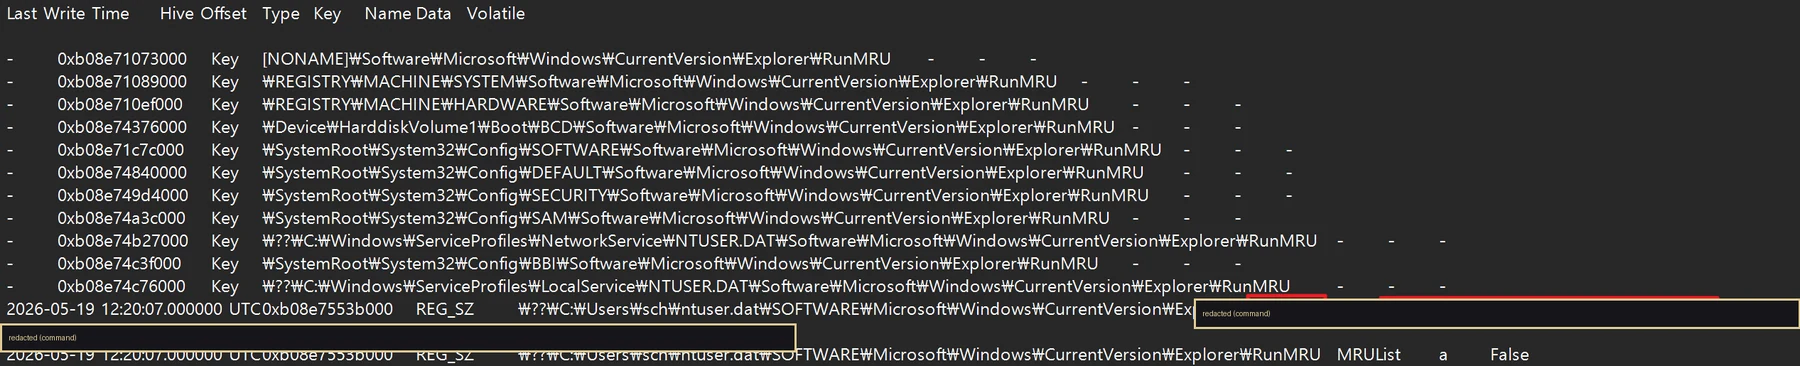
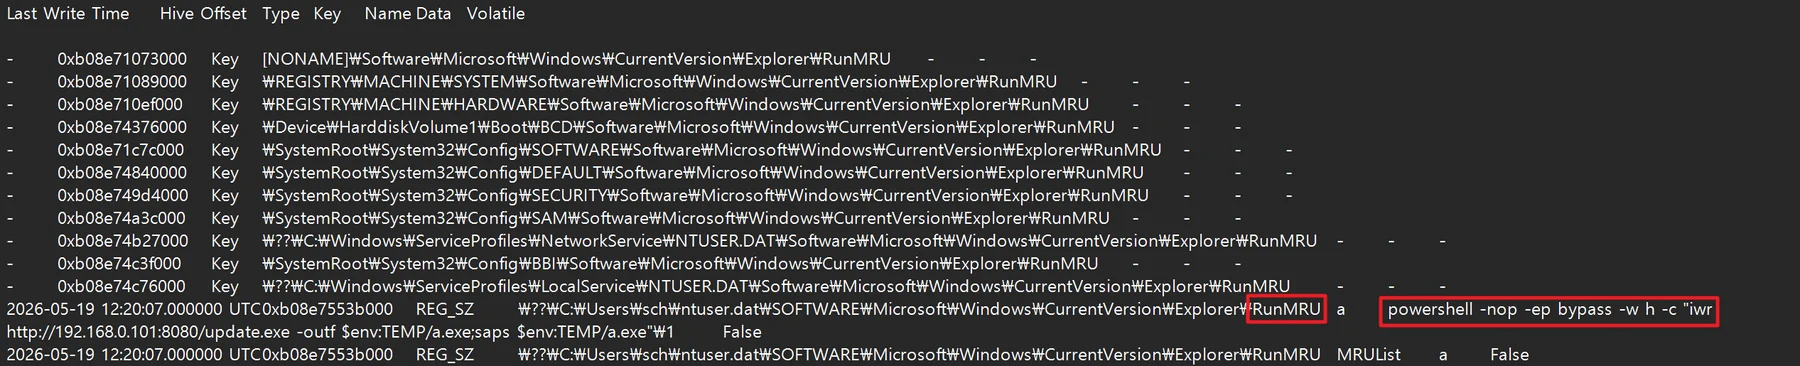
Show lab credentials and secrets unmasked in practice screenshots

Changed region(s): [[0.0, 0.8716, 0.4667, 0.9918], [0.6533, 0.8115, 1.0, 0.9016]]

diff --git a/index.html b/index.html
@@ -964,7 +964,7 @@
 
       <article class="wuitem" id="it-sqli">
         <div class="wuih"><span class="ft">SQLi</span><h3>SQL Injection — DB 구조 식별</h3><a class="anchor" href="#sqli">#sqli</a></div>
-        <p>도구 응답에서 데이터베이스의 테이블 목록을 확인했습니다. 추출한 값 중 민감한 부분은 공개본에서 가렸습니다.</p>
+        <p>도구 응답에서 데이터베이스의 테이블 목록을 확인했습니다.</p>
         <figure class="fig"><button class="zoom" aria-label="확대: SQLi"><img src="assets/img/webdiag-01.webp" alt="데이터베이스 테이블 목록" loading="lazy"></button><figcaption>도구 응답으로 확인한 테이블 목록</figcaption></figure>
       </article>
       <article class="wuitem" id="it-xss">
@@ -979,17 +979,17 @@
         <div class="wuih"><span class="ft">CSRF</span><h3>CSRF 댓글 작성 요청</h3><a class="anchor" href="#csrf">#csrf</a></div>
         <p>피해자가 숨겨진 요청이 담긴 글을 열기만 해도 피해자 권한으로 댓글이 작성되는 흐름을 확인했습니다. 다른 세션 권한에 미치는 영향은 확인하지 않았습니다.</p>
         <div class="figrow two" style="margin-top:16px">
-          <figure class="fig"><button class="zoom" aria-label="확대: CSRF 요청"><img src="assets/img/webdiag-06.webp" alt="댓글 작성 요청을 자동으로 보내는 iframe을 글 내용에 삽입한 화면(비밀번호 값은 가림)" loading="lazy"></button><figcaption>요청 — 댓글 작성 요청을 자동으로 보내는 iframe을 글 내용에 심었습니다. 요청의 비밀번호 값은 가렸습니다.</figcaption></figure>
+          <figure class="fig"><button class="zoom" aria-label="확대: CSRF 요청"><img src="assets/img/webdiag-06.webp" alt="댓글 작성 요청을 자동으로 보내는 iframe을 글 내용에 삽입한 화면" loading="lazy"></button><figcaption>요청 — 댓글 작성 요청을 자동으로 보내는 iframe을 글 내용에 심었습니다(num·co_content·co_pass 파라미터 포함).</figcaption></figure>
           <figure class="fig"><button class="zoom" aria-label="확대: CSRF 결과"><img src="assets/img/webdiag-07.webp" alt="CSRF로 자동 작성된 댓글" loading="lazy"></button><figcaption>결과 — 글을 연 것만으로 댓글이 자동 작성된 것을 확인했습니다.</figcaption></figure>
         </div>
       </article>
       <article class="wuitem" id="it-upload">
         <div class="wuih"><span class="ft">UPLOAD</span><h3>악성 파일 업로드</h3><a class="anchor" href="#upload">#upload</a></div>
-        <p>확장자를 제한하는 클라이언트 검사를 우회해 서버에 스크립트 파일을 올리고, 그 파일이 서버에서 실행되는 것까지 확인했습니다. 실행에 바로 쓸 수 있는 명령 문자열은 공개본에서 가렸습니다.</p>
+        <p>확장자를 제한하는 클라이언트 검사를 우회해 서버에 스크립트 파일을 올리고, 그 파일이 서버에서 시스템 명령을 실행하는 것까지 확인했습니다.</p>
         <figure class="fig" style="max-width:560px;margin-top:16px"><button class="zoom" aria-label="확대: 확장자 검사"><img src="assets/img/webdiag-31.webp" alt="허용 확장자를 jpg·hwp·pdf·jpeg·txt로 제한한다는 클라이언트 알림" loading="lazy"></button><figcaption>클라이언트 검사 — 허용 확장자를 제한하는 알림이 뜨지만, 이 검사는 브라우저 쪽이라 우회할 수 있었습니다.</figcaption></figure>
         <div class="figrow two" style="margin-top:14px">
           <figure class="fig"><button class="zoom" aria-label="확대: 업로드 파일 실행"><img src="assets/img/webdiag-33.webp" alt="업로드한 ASP 파일에 접근하자 Hello World가 출력됨" loading="lazy"></button><figcaption>실행 확인 — 올린 ASP 파일에 접근하자 코드가 실행돼 결과가 출력됐습니다.</figcaption></figure>
-          <figure class="fig"><button class="zoom" aria-label="확대: 시스템 명령 실행"><img src="assets/img/webdiag-34.webp" alt="업로드한 ASP가 시스템 명령을 실행해 ipconfig 결과를 반환(URL의 명령 문자열은 가림)" loading="lazy"></button><figcaption>영향 — 같은 방식으로 시스템 명령을 실행해 내부 네트워크 정보(ipconfig)가 반환됐습니다. URL의 명령 문자열은 가렸습니다.</figcaption></figure>
+          <figure class="fig"><button class="zoom" aria-label="확대: 시스템 명령 실행"><img src="assets/img/webdiag-34.webp" alt="업로드한 ASP가 cmd 명령으로 ipconfig를 실행해 결과를 반환" loading="lazy"></button><figcaption>영향 — 업로드한 ASP에 <code class="inl">cmd</code> 명령을 넘겨 ipconfig를 실행하자 내부 네트워크 정보가 반환됐습니다(웹셸 RCE).</figcaption></figure>
         </div>
       </article>
       <article class="wuitem" id="it-filedl">
@@ -1059,7 +1059,7 @@
         <div class="m"><div class="mk">수행 유형</div><div class="mv">교육 실습(사설망)</div></div>
         <div class="m"><div class="mk">도구</div><div class="mv">Metasploit · John · hping3</div></div>
         <div class="m"><div class="mk">성격</div><div class="mv">공개 취약점 재현·연계</div></div>
-        <div class="m"><div class="mk">공개 처리</div><div class="mv">비밀값 마스킹</div></div>
+        <div class="m"><div class="mk">공개 처리</div><div class="mv">실습 데이터 공개</div></div>
       </div>
 
       <article class="wuitem" id="it-calc">
@@ -1072,10 +1072,10 @@
       </article>
       <article class="wuitem" id="it-rpc">
         <div class="wuih"><span class="ft">CVE-1999-0209</span><h3>RPC 원격 → root · 해시 크랙</h3><a class="anchor" href="#rpc">#rpc</a></div>
-        <p>사설 실습망의 Solaris RPC 취약점을 공개 모듈로 재현해 셸을 얻고 이후 권한을 확인했습니다. 추출한 해시는 크랙 도구로 복원했습니다. 해시·평문 등 계정 정보는 공개본에서 가렸습니다.</p>
+        <p>사설 실습망의 Solaris RPC 취약점을 공개 모듈로 재현해 root 셸을 얻고, <code class="inl">/etc/shadow</code>에서 추출한 해시를 John the Ripper로 크랙했습니다.</p>
         <div class="figrow two">
-          <figure class="fig"><button class="zoom" aria-label="확대: RPC 셸"><img src="assets/img/rpc-07.webp" alt="RPC 취약점 재현으로 획득한 셸" loading="lazy"></button><figcaption>RPC 재현으로 획득한 셸</figcaption></figure>
-          <figure class="fig"><button class="zoom" aria-label="확대: 해시 크랙"><img src="assets/img/rpc-08.webp" alt="해시 크랙 결과, 비밀값 마스킹" loading="lazy"></button><figcaption>해시 크랙(값 마스킹)</figcaption></figure>
+          <figure class="fig"><button class="zoom" aria-label="확대: RPC 셸"><img src="assets/img/rpc-07.webp" alt="RPC 취약점 재현으로 획득한 root 셸과 /etc/shadow 출력" loading="lazy"></button><figcaption>셸 획득 — RPC 재현으로 root 셸을 얻고 <code class="inl">/etc/shadow</code>를 확인했습니다.</figcaption></figure>
+          <figure class="fig"><button class="zoom" aria-label="확대: 해시 크랙"><img src="assets/img/rpc-08.webp" alt="John the Ripper로 root 해시를 크랙한 결과" loading="lazy"></button><figcaption>해시 크랙 — John으로 root 계정 해시를 크랙했습니다.</figcaption></figure>
         </div>
       </article>
       <article class="wuitem" id="it-nmap">
@@ -1090,8 +1090,8 @@
       </article>
       <article class="wuitem" id="it-ssh">
         <div class="wuih"><span class="ft">SYSTEM</span><h3>Solaris SSH 접속 실습</h3><a class="anchor" href="#ssh">#ssh</a></div>
-        <p>교육용 Solaris 환경에서 Hydra로 사전 기반 SSH 접속을 시도해 일부 계정 접속을 확인했습니다. root 계정 획득은 확인하지 않았습니다. 공개본에서는 계정 비밀번호가 보이지 않도록 가린 구간만 실었습니다.</p>
-        <figure class="fig"><button class="zoom" aria-label="확대: SSH 사전 공격"><img src="assets/img/ssh-01.webp" alt="Hydra로 Solaris SSH에 사전 공격을 수행하는 로그(비밀번호 구간 제외)" loading="lazy"></button><figcaption>Hydra SSH 사전 공격 수행(비밀값 제외)</figcaption></figure>
+        <p>교육용 Solaris 환경에서 Hydra로 사전 기반 SSH 접속을 시도해 일부 계정 접속을 확인했습니다. root 계정 획득은 확인하지 않았습니다.</p>
+        <figure class="fig"><button class="zoom" aria-label="확대: SSH 사전 공격"><img src="assets/img/ssh-01.webp" alt="Hydra로 Solaris SSH에 사전 공격을 수행해 계정 접속을 확인한 로그" loading="lazy"></button><figcaption>Hydra 사전 공격 — 일부 계정의 SSH 접속을 확인했습니다.</figcaption></figure>
       </article>
       <article class="wuitem" id="it-cve3623">
         <div class="wuih"><span class="ft">CVE-2017-3623</span><h3>CVE-2017-3623</h3><a class="anchor" href="#cve3623">#cve3623</a></div>
@@ -1113,8 +1113,11 @@
       </article>
       <article class="wuitem" id="it-lindiag">
         <div class="wuih"><span class="ft">진단 · 수업</span><h3>리눅스·윈도우 취약점 진단</h3><a class="anchor" href="#lindiag">#lindiag</a></div>
-        <p>파일과 설정의 상태를 점검하는 진단 스크립트 실습입니다. 화면은 <code class="inl">/etc/shadow</code> 파일의 존재 여부를 확인하는 예제입니다. 완성된 통합 진단 스크립트 공개는 로드맵의 예정 항목입니다.</p>
-        <figure class="fig"><button class="zoom" aria-label="확대: 진단 스크립트"><img src="assets/img/lindiag-23.webp" alt="shadow 파일 존재 여부를 점검하는 진단 셸 스크립트" loading="lazy"></button><figcaption>shadow 파일 존재 점검 스크립트</figcaption></figure>
+        <p>파일과 설정의 상태를 점검하는 진단 스크립트 실습입니다. shadow 파일 존재 점검과 계정 해시 확인 예제를 다뤘습니다. 완성된 통합 진단 스크립트 공개는 로드맵의 예정 항목입니다.</p>
+        <div class="figrow two">
+          <figure class="fig"><button class="zoom" aria-label="확대: 진단 스크립트"><img src="assets/img/lindiag-23.webp" alt="shadow 파일 존재 여부를 점검하는 진단 셸 스크립트" loading="lazy"></button><figcaption>점검 — shadow 파일 존재 여부를 확인하는 스크립트입니다.</figcaption></figure>
+          <figure class="fig"><button class="zoom" aria-label="확대: 계정 해시"><img src="assets/img/lindiag-31.webp" alt="etc shadow의 계정 해시를 확인하는 점검 결과" loading="lazy"></button><figcaption>결과 — 점검 대상 계정의 해시 상태를 확인했습니다.</figcaption></figure>
+        </div>
       </article>
       <article class="wuitem" id="it-openedr">
         <div class="wuih"><span class="ft">소스 분석</span><h3>OpenEDR 소스 분석</h3><a class="anchor" href="#openedr">#openedr</a></div>
@@ -1142,7 +1145,7 @@
         <div class="m"><div class="mk">수행 유형</div><div class="mv">교육 실습(사설망)</div></div>
         <div class="m"><div class="mk">도구</div><div class="mv">pfSense · Suricata · Elastic · Wireshark</div></div>
         <div class="m"><div class="mk">성격</div><div class="mv">구성 · 수집 · 분석</div></div>
-        <div class="m"><div class="mk">공개 처리</div><div class="mv">식별 정보 마스킹</div></div>
+        <div class="m"><div class="mk">공개 처리</div><div class="mv">실습 데이터 공개</div></div>
       </div>
 
       <article class="wuitem" id="it-pfsense">
@@ -1301,7 +1304,7 @@
         <div class="m"><div class="mk">수행 유형</div><div class="mv">교육 실습 · 제공 샘플</div></div>
         <div class="m"><div class="mk">도구</div><div class="mv">DIE · Sysinternals · Volatility · FTK</div></div>
         <div class="m"><div class="mk">구분</div><div class="mv">자동 판정 ↔ 본인 해석</div></div>
-        <div class="m"><div class="mk">공개 처리</div><div class="mv">일부 값 마스킹</div></div>
+        <div class="m"><div class="mk">공개 처리</div><div class="mv">실습 데이터 공개</div></div>
       </div>
 
       <article class="wuitem" id="it-m518">
@@ -1353,13 +1356,13 @@
       </article>
       <article class="wuitem" id="it-clickfix">
         <div class="wuih"><span class="ft">메모리</span><h3>ClickFix 메모리 포렌식</h3><a class="anchor" href="#clickfix">#clickfix</a></div>
-        <p>ClickFix 침해 사고의 메모리 덤프를 Volatility 3으로 분석했습니다. 이미지 정보로 환경을 확인하고, 의심 프로세스와 레지스트리 실행 흔적, 메모리에 남은 URL을 차례로 대조했습니다. 실행에 바로 쓸 수 있는 악성 명령 문자열은 공개본에서 가렸습니다.</p>
+        <p>ClickFix 침해 사고의 메모리 덤프를 Volatility 3으로 분석했습니다. 이미지 정보·의심 프로세스·레지스트리 실행 흔적·메모리 URL·코드 인젝션·외부 연결·자격증명 덤프까지 차례로 확인했습니다.</p>
         <div class="figrow two" style="margin-top:16px">
           <figure class="fig"><button class="zoom" aria-label="확대: 이미지 정보"><img src="assets/img/clickfix-02.webp" alt="windows.info 플러그인으로 확인한 메모리 이미지의 운영체제·빌드 정보" loading="lazy"></button><figcaption>환경 — <code class="inl">windows.info</code>로 메모리 이미지가 Windows 10 환경임을 확인했습니다.</figcaption></figure>
           <figure class="fig"><button class="zoom" aria-label="확대: 의심 프로세스"><img src="assets/img/clickfix-03.webp" alt="프로세스·명령줄 목록에서 chrome.exe(PID 8700)를 식별한 화면" loading="lazy"></button><figcaption>프로세스 — 프로세스·명령줄 목록에서 최초 유입에 쓰인 chrome.exe(PID 8700)를 식별했습니다.</figcaption></figure>
         </div>
         <div class="figrow two" style="margin-top:14px">
-          <figure class="fig"><button class="zoom" aria-label="확대: RunMRU 레지스트리"><img src="assets/img/clickfix-07.webp" alt="RunMRU 레지스트리 키에 PowerShell 실행 명령이 남은 기록(명령 문자열은 가림)" loading="lazy"></button><figcaption>레지스트리 — 메모리의 <code class="inl">RunMRU</code> 키에서 사용자가 실행 대화상자(Win+R)로 PowerShell 명령을 실행한 흔적을 확인했습니다. 실제 명령 문자열은 가렸습니다.</figcaption></figure>
+          <figure class="fig"><button class="zoom" aria-label="확대: RunMRU 레지스트리"><img src="assets/img/clickfix-07.webp" alt="RunMRU 레지스트리 키에 남은 PowerShell 다운로드 실행 명령" loading="lazy"></button><figcaption>레지스트리 — 메모리의 <code class="inl">RunMRU</code>에서 사용자가 실행 대화상자(Win+R)로 PowerShell 다운로드 명령을 실행한 흔적을 확인했습니다.</figcaption></figure>
           <figure class="fig"><button class="zoom" aria-label="확대: 메모리 URL"><img src="assets/img/clickfix-06.webp" alt="YARA 규칙으로 메모리에서 추출한 HTTP URL 문자열" loading="lazy"></button><figcaption>연결 — YARA 규칙으로 메모리를 훑어 남아 있던 HTTP URL 문자열을 추출했습니다.</figcaption></figure>
         </div>
         <div class="figrow two" style="margin-top:14px">
@@ -1367,6 +1370,10 @@
           <figure class="fig"><button class="zoom" aria-label="확대: 외부 연결"><img src="assets/img/clickfix-14.webp" alt="netscan으로 확인한 내부 C2 주소로의 네트워크 연결" loading="lazy"></button><figcaption>스캔 — <code class="inl">netscan</code>으로 의심 프로세스가 내부 C2 주소로 연결한 흔적을 확인했습니다.</figcaption></figure>
         </div>
         <figure class="fig" style="margin-top:14px"><button class="zoom" aria-label="확대: 드롭 파일"><img src="assets/img/clickfix-08.webp" alt="filescan으로 Temp 폴더에서 드롭된 임시 실행 파일을 확인" loading="lazy"></button><figcaption>흔적 — <code class="inl">filescan</code>으로 Temp 폴더에 드롭된 실행 파일 흔적을 확인했습니다.</figcaption></figure>
+        <div class="figrow two" style="margin-top:14px">
+          <figure class="fig"><button class="zoom" aria-label="확대: 자격증명 덤프"><img src="assets/img/clickfix-16.webp" alt="hashdump로 추출한 로컬 계정 NTLM 해시" loading="lazy"></button><figcaption>자격증명 — <code class="inl">hashdump</code>로 메모리에서 로컬 계정 NTLM 해시를 추출했습니다.</figcaption></figure>
+          <figure class="fig"><button class="zoom" aria-label="확대: 지속성 Run 키"><img src="assets/img/clickfix-11.webp" alt="레지스트리 Run 키에 등록된 PowerShell 다운로드 실행 명령" loading="lazy"></button><figcaption>지속성 — 레지스트리 <code class="inl">Run</code> 키에 PowerShell 다운로드 명령이 등록된 것을 확인했습니다.</figcaption></figure>
+        </div>
       </article>
       <article class="wuitem" id="it-wanna">
         <div class="wuih"><span class="ft">랜섬</span><h3>WannaCry 침해 분석</h3><a class="anchor" href="#wanna">#wanna</a></div>
@@ -1379,11 +1386,11 @@
       </article>
       <article class="wuitem" id="it-htear">
         <div class="wuih"><span class="ft">랜섬</span><h3>HiddenTear</h3><a class="anchor" href="#htear">#htear</a></div>
-        <p>교육용 오픈소스 랜섬웨어 HiddenTear를 실습 환경에서 다뤘습니다. 파일이 암호화되며 나타난 랜섬 노트를 확인하고, 확보한 키로 복호화해 복원 결과를 확인했습니다. 키 등 비밀값은 공개본에서 가렸습니다.</p>
+        <p>교육용 오픈소스 랜섬웨어 HiddenTear를 실습 환경에서 다뤘습니다. AES 암호화 로직을 보고, 파일이 암호화되며 나타난 랜섬 노트를 확인한 뒤, 확보한 키로 복호화해 복원 결과를 확인했습니다.</p>
         <div class="figrow three" style="margin-top:16px">
           <figure class="fig"><button class="zoom" aria-label="확대: 암호화 코드"><img src="assets/img/htear-01.webp" alt="AES 암호화를 수행하는 HiddenTear 소스 코드" loading="lazy"></button><figcaption>암호화 로직 — AES로 파일을 암호화하는 소스 코드를 확인했습니다.</figcaption></figure>
           <figure class="fig"><button class="zoom" aria-label="확대: 랜섬 노트"><img src="assets/img/htear-02.webp" alt="암호화 후 나타난 랜섬 노트 화면" loading="lazy"></button><figcaption>감염 결과 — 파일이 암호화되며 피해 화면(랜섬 노트)이 나타난 것을 확인했습니다.</figcaption></figure>
-          <figure class="fig"><button class="zoom" aria-label="확대: 복호화"><img src="assets/img/htear-08.webp" alt="복호화 확인, 키 마스킹" loading="lazy"></button><figcaption>복호화 — 확보한 키로 복호화해 "Files Decrypted!"를 확인했습니다. 키 값은 가렸습니다.</figcaption></figure>
+          <figure class="fig"><button class="zoom" aria-label="확대: 복호화"><img src="assets/img/htear-08.webp" alt="확보한 키로 복호화해 Files Decrypted가 표시된 화면" loading="lazy"></button><figcaption>복호화 — 확보한 키로 복호화해 "Files Decrypted!"를 확인했습니다.</figcaption></figure>
         </div>
       </article>
       <article class="wuitem" id="it-remcos">
@@ -1526,7 +1533,7 @@
           <tr><td>입력 처리 · 폼</td><td>입력 폼·검색 기능 없음</td><td>해당 없음</td></tr>
           <tr><td>출력 렌더링 · XSS</td><td>본문은 작성자가 넣은 정적 HTML이며, 스크립트는 외부·사용자 데이터를 <code class="inl">innerHTML</code>로 삽입하지 않습니다. 플레이 영상은 사용자가 클릭할 때만 고정된 유튜브(nocookie) 임베드를 불러오고, 평소에는 외부 호출이 없습니다</td><td style="color:var(--good)">소스에서 확인</td></tr>
           <tr><td>외부 링크</td><td>모든 <code class="inl">target="_blank"</code> 링크에 <code class="inl">rel="noopener noreferrer"</code>를 적용했습니다</td><td style="color:var(--good)">소스에서 확인</td></tr>
-          <tr><td>비밀값 노출</td><td>공개 이미지의 쿠키·토큰·키·암호·해시·개인정보를 픽셀로 가렸고, 남은 캡처를 계속 확인하고 있습니다</td><td style="color:var(--amber)">이미지 추가 확인 중</td></tr>
+          <tr><td>비밀값 노출</td><td>실습 캡처의 자격증명·키·해시는 교육용 사설망에서 만든 테스트 값이라 그대로 싣되, 실제 외부 서비스 자격증명(예: 외부 API 토큰)만 가립니다</td><td style="color:var(--good)">실습 데이터로 공개</td></tr>
           <tr><td>정적 산출물 정보 노출</td><td>배포 파일을 검토한 범위에서 키·토큰·개인정보를 발견하지 못했습니다</td><td style="color:var(--good)">소스에서 확인</td></tr>
           <tr><td>보안 헤더 · HTTPS</td><td>CSP·HSTS·X-Content-Type-Options 등은 배포 환경에서 적용·확인할 예정입니다</td><td style="color:var(--amber)">보완 예정</td></tr>
           <tr><td>접근성 · 안정성</td><td>표준 문서 선언·언어·뷰포트, 모바일 메뉴, 접근 가능한 이미지 확대 대화상자, 대비 개선을 적용했습니다</td><td style="color:var(--good)">적용</td></tr>
